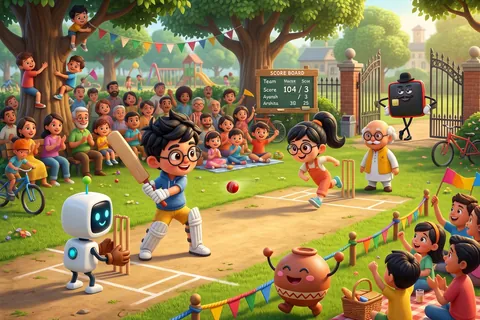
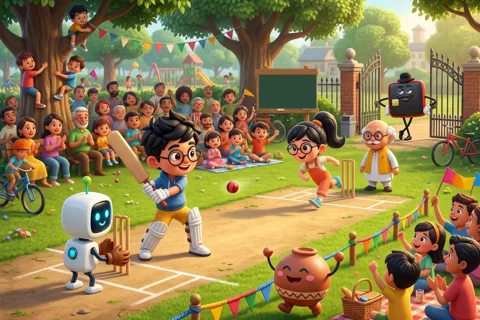
Dada World: Watch Dimaag Dada card on Play (YouTube videos + Subscribe) and cricket scene scoreboard painted to a blank board (old names removed) (Raj OK: Yes, push it, 5 Nov; DM passed); puzzles sw p12

Changed region(s): [[0.5312, 0.1875, 0.6875, 0.3438]]

diff --git a/puzzles/index.html b/puzzles/index.html
@@ -98,6 +98,7 @@ main{max-width:1000px;margin:0 auto;padding:16px 16px 110px}
 .pay .err{color:#c0392b;font-size:13px;min-height:1.2em}.pay .tm{font:700 11px ui-monospace,Consolas,monospace;color:#b45309;letter-spacing:.06em}
 @media (max-width:560px){.hero h2{font-size:24px}.win{flex-direction:column;text-align:center}.btns{justify-content:center}.hero>img.dada{height:min(78%,200px)}}
 @media (prefers-reduced-motion:reduce){.cheer{transition:none}}
+.watch{display:flex;gap:12px;align-items:center;background:linear-gradient(135deg,#2a1414,#1f3439);border:1px solid var(--line);border-radius:18px;padding:12px;text-decoration:none;margin-bottom:6px}.watch img{width:30%;max-width:140px;aspect-ratio:4/5;object-fit:cover;object-position:50% 8%;background:#ffe2a8;border-radius:12px;flex:none}.watch b{display:block;font:800 17px/1.2 var(--disp)}.watch small{display:block;color:var(--muted);font-size:13px;margin:4px 0 8px}.wbtns{display:flex;flex-wrap:wrap;gap:6px}.watch>a{flex:none;width:30%;max-width:140px}.watch>a img{width:100%!important}.wb{text-decoration:none;background:#ff0033;color:#fff;font-weight:800;font-size:13px;border-radius:999px;padding:8px 12px;min-height:36px;display:inline-flex;align-items:center}.wb.alt{background:var(--card);border:1px solid var(--line)}
 </style>
 </head>
 <body>
@@ -185,6 +186,8 @@ function playTab(){
   return `<a class="hero" href="#/play/${d.id}"><img class="bg" src="scenes/${d.id}-sm.webp" alt=""><img class="dada" src="img/dada.webp" alt="Dimaag Dada" width="360" height="623"><span class="eyebrow">Aaj ka puzzle · free</span><h2>${esc(d.title)}</h2><p>Kitne second mein?</p><span class="cta">Play now</span></a>
   <div class="streak"><span class="n">${st.n}🔥</span><div><b style="font-size:14px">Day streak</b><p>${st.today ? "Shabaash! Aaj ka puzzle ho gaya." : "Ek puzzle solve karo, streak chalti rahegi!"}</p></div><div class="dots" aria-hidden="true">${days.map(x => `<i${st.days.includes(x) ? ' class="on"' : ""}></i>`).join("")}</div></div>
   <div class="sec"><h3>Jigsaws</h3><span>${SCENES.length} scenes</span></div><div class="grid">${SCENES.map(card).join("")}</div>
+  <div class="sec"><h3>Watch Dimaag Dada</h3><span>On YouTube</span></div>
+  <div class="watch"><a href="https://www.youtube.com/@DimaagDada/videos" target="_blank" rel="noopener" tabindex="-1" aria-hidden="true"><img src="img/dada-thumbs.webp" alt="" loading="lazy"></a><div><b>▶ Dada's puzzle videos</b><small>Brain teasers, maths tricks and exam puzzles. Free to watch.</small><span class="wbtns"><a class="wb" href="https://www.youtube.com/@DimaagDada/videos" target="_blank" rel="noopener">Watch all videos</a><a class="wb alt" href="https://www.youtube.com/@DimaagDada?sub_confirmation=1" target="_blank" rel="noopener">Subscribe</a></span></div></div>
   <div class="sec"><h3>Dada Comics</h3><span>New: read free</span></div>
   <div class="grid"><a href="comics.html" style="text-decoration:none">${TILE('<img src="img/comic/trail-1-cover.webp" alt="" loading="lazy" width="512" height="382" style="object-fit:cover;aspect-ratio:512/382">', "The Puzzle Trail", "Episode 1 · solve clues to turn pages", BADGE.free)}</a></div>
   <div class="sec"><h3>Board games</h3><span>New: Botu Chess</span></div>

diff --git a/puzzles/sw.js b/puzzles/sw.js
@@ -1,5 +1,5 @@
 // Offline support for Dada World (/puzzles/). Bump VERSION whenever a scene is added or a file here changes.
-const VERSION = "p11";
+const VERSION = "p12";
 const CACHE = "dada-puzzles-" + VERSION;
 const PRECACHE = ["./", "index.html", "ludo.html", "snakes-sums.html", "chess.html", "comics.html", "img/comic/trail-1-cover.webp", "img/comic/trail-1-p1.webp", "img/comic/trail-1-p2.webp", "img/comic/trail-1-p3.webp", "img/comic/trail-1-p4.webp", "img/comic/trail-1-p5.webp", "img/comic/trail-1-p6.webp", "img/chess.webp", "img/chess-frame.webp", "img/botu.webp", "img/snakes-board.webp", "manifest.webmanifest", "img/icon-96.webp", "img/icon-192.png", "img/icon-512.png", "img/dada.webp", "img/dada-thumbs.webp", "img/gullak-happy.webp",
   "img/ludo.webp", "img/snakes-sums.webp", "img/learn.webp", "img/puzzle-book.webp", "img/stationery.webp", "img/comics-trail.webp",
